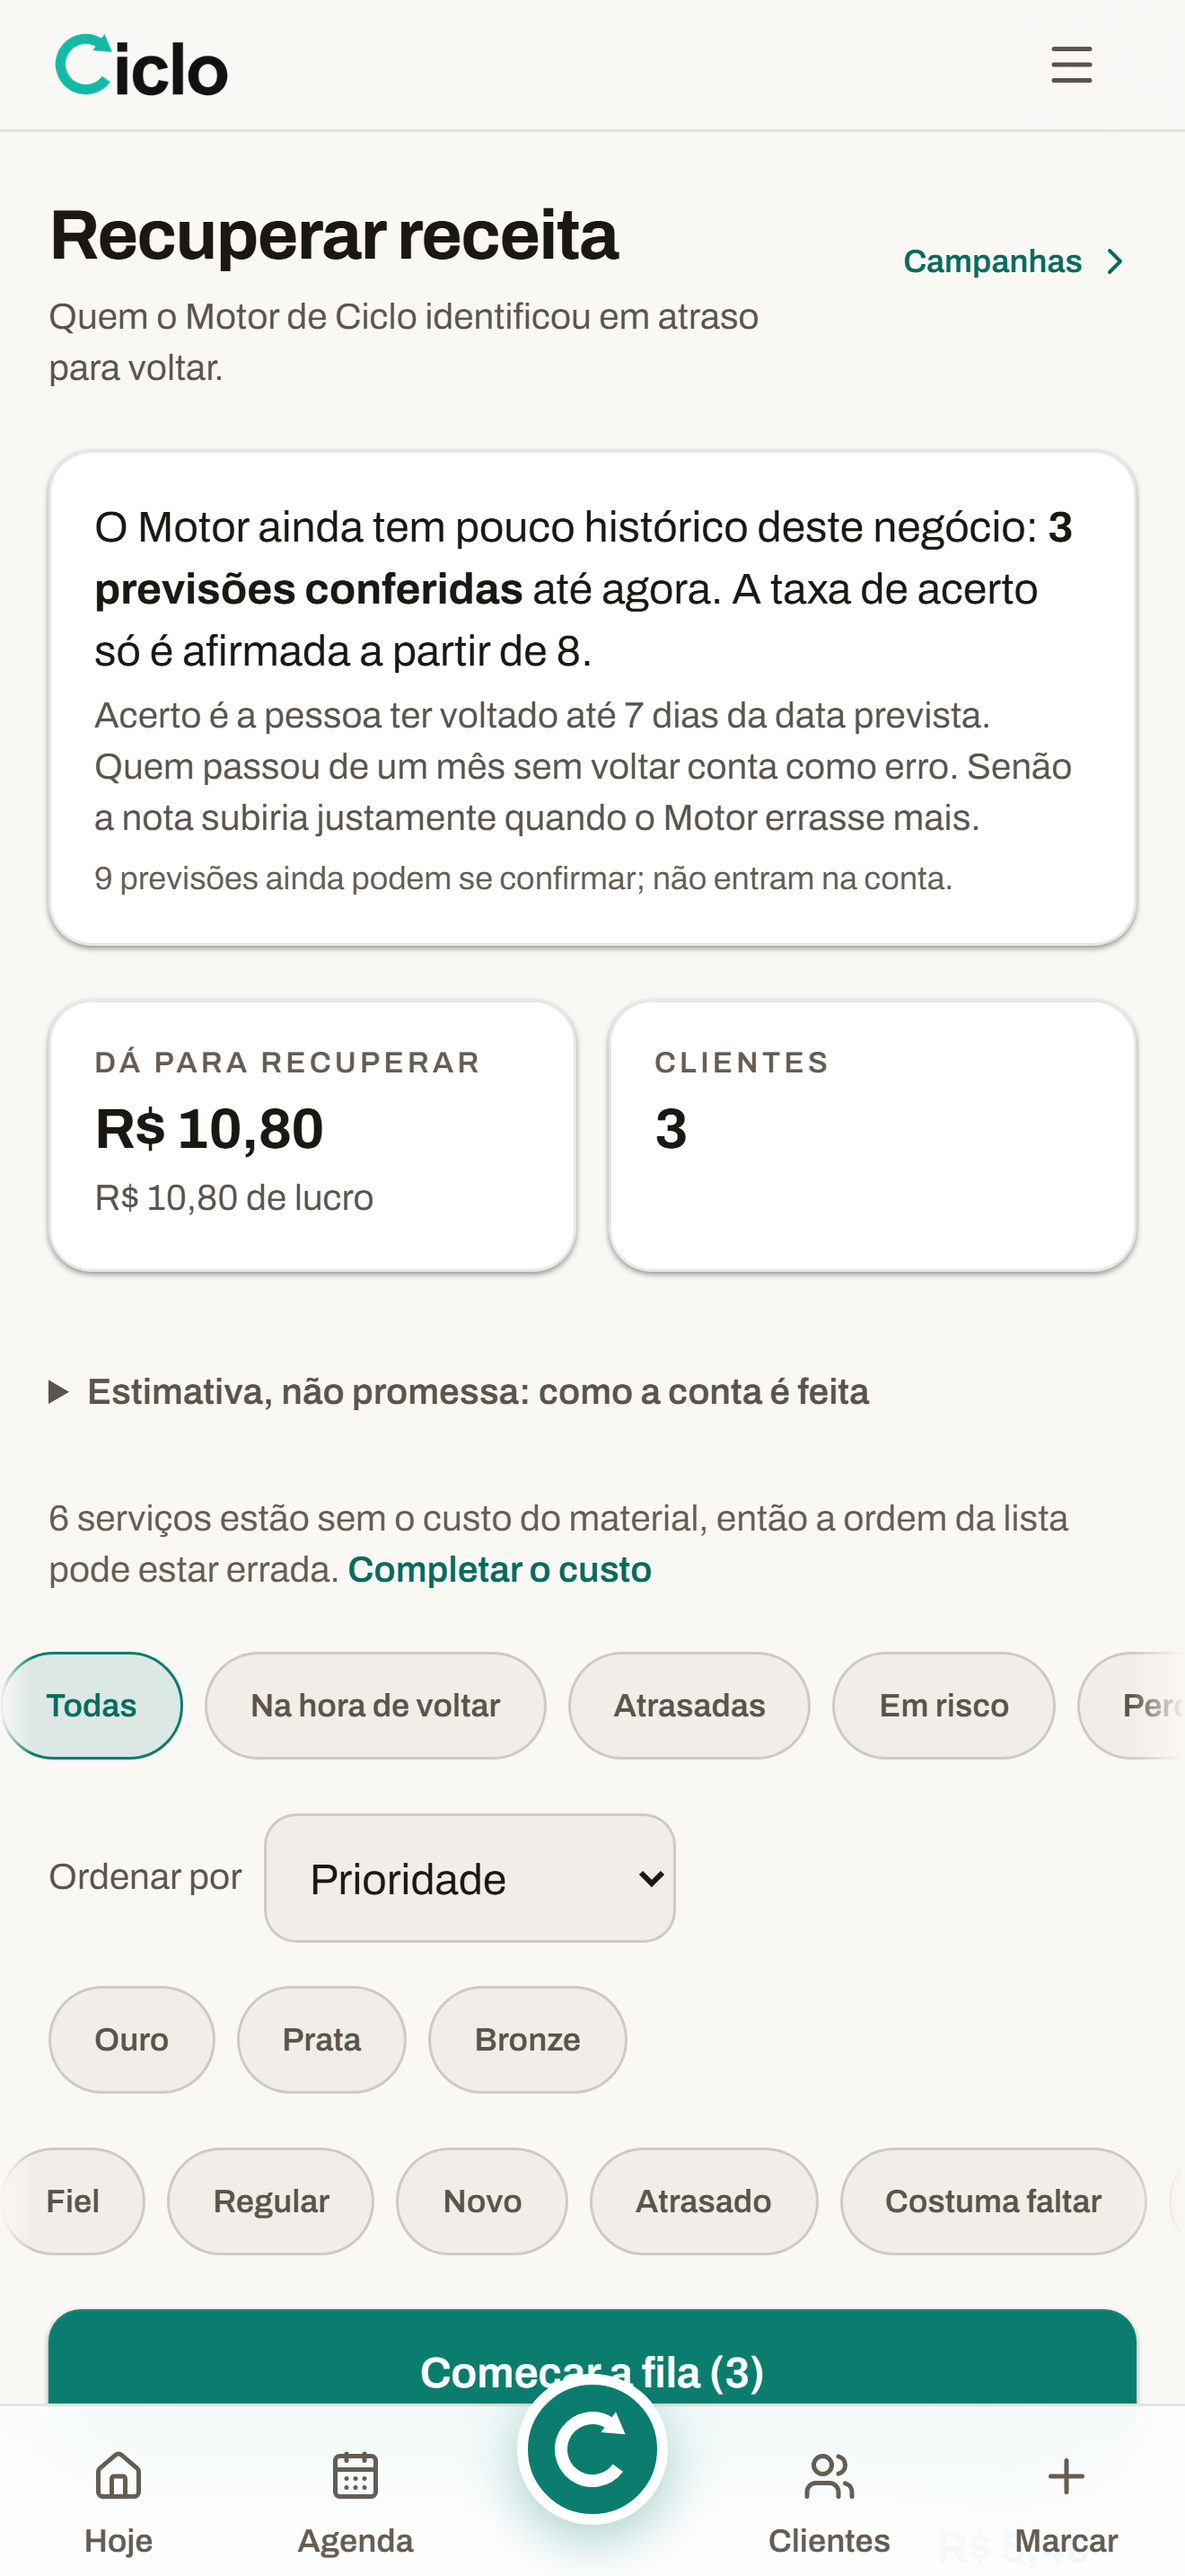
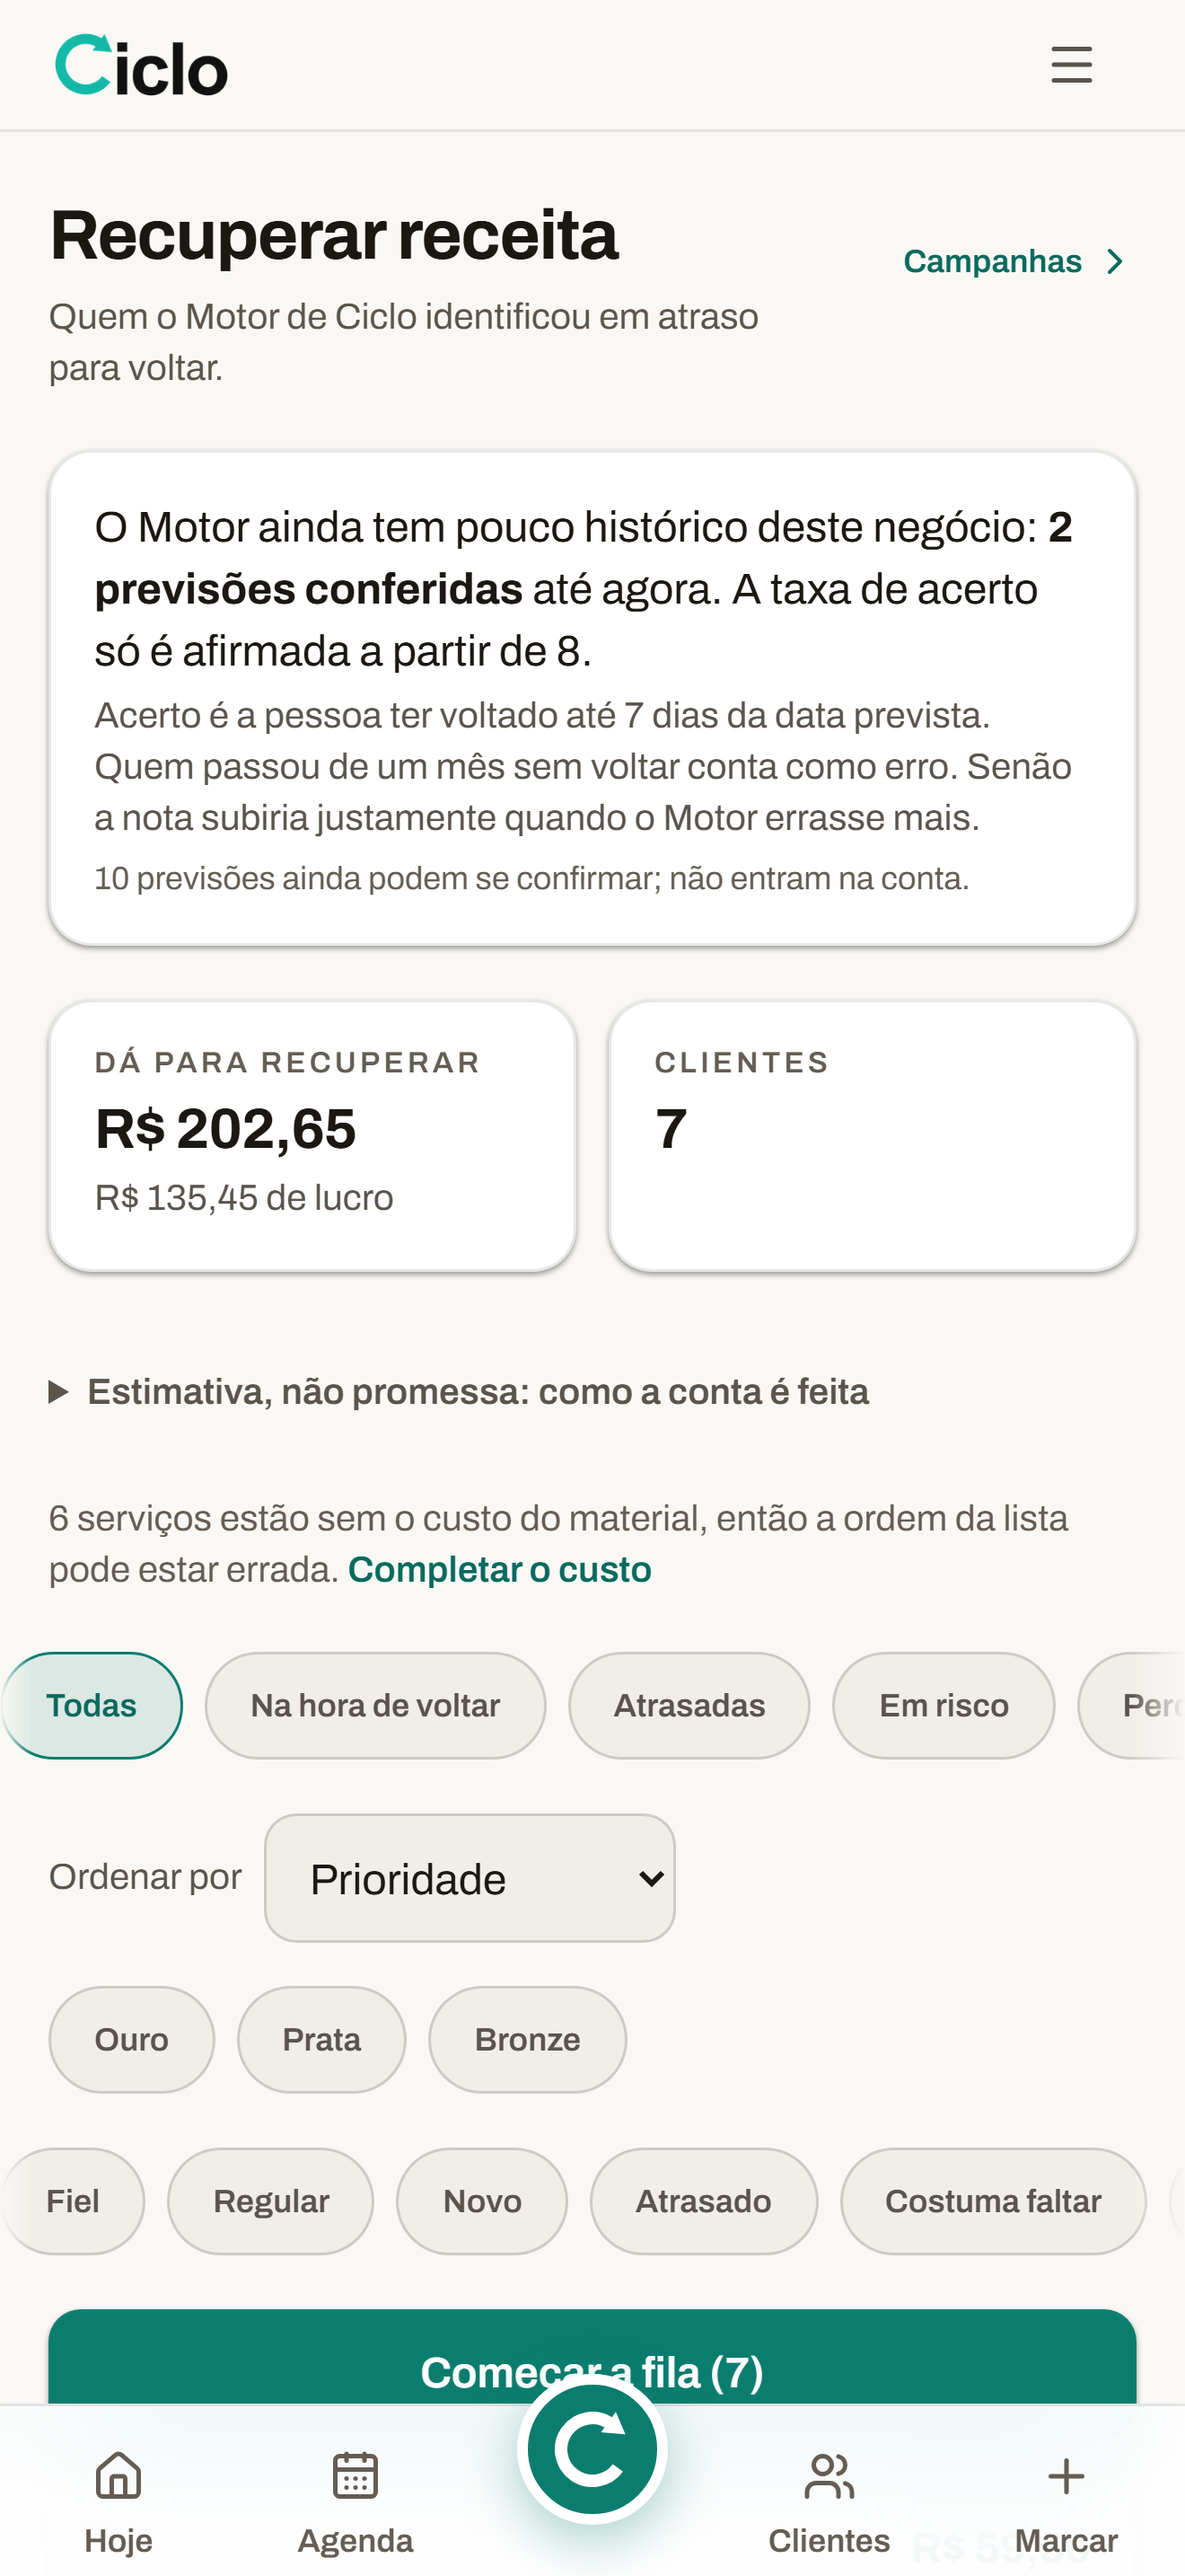
docs(98): imagens da loja refeitas com a semente nova (7 na fila, R$ 202,65)

Changed region(s): [[0.1553, 0.4344, 0.3106, 0.4655], [0.6212, 0.8999, 0.6523, 0.931], [0.5591, 0.4344, 0.5902, 0.4655]]

diff --git a/docs/98-aprimoramento/13-material-de-envio-lojas.md b/docs/98-aprimoramento/13-material-de-envio-lojas.md
@@ -94,7 +94,7 @@ Geradas do build de produção desta branch, com um negócio fictício do banco 
 
 As imagens mostram só o que a conta do revisor também mostra (regra 2.3).
 
-**Estado em 15/10 (rascunho, não é a versão final):** geradas com o ensaio completo da seção 6 num Supabase local **isolado** com o esquema da `main` (o banco local compartilhado está 21 migrations à frente e quebrava o Motor). Hoje mostra "3 clientes estão sumindo" e Recuperar mostra a fila. Para a versão final: capturar **de dia** (à noite aparece "Boa noite" e "Nada marcado para hoje"), preencher o custo dos serviços (some o aviso "6 serviços estão sem o custo") e decidir se o seed deve ter clientes "na hora de voltar", não só "perdidos" (o valor a recuperar sai R$ 10,80 porque perdido tem pouca chance de volta).
+**Estado em 15/10 (rascunho, não é a versão final):** geradas com o ensaio completo da seção 6 num Supabase local **isolado** com o esquema da `main` (o banco local compartilhado está 21 migrations à frente e quebrava o Motor). Hoje mostra "3 clientes estão sumindo" e Recuperar mostra a fila. Para a versão final: capturar **de dia** (à noite aparece "Boa noite" e "Nada marcado para hoje"), preencher o custo dos serviços (some o aviso "6 serviços estão sem o custo") (a semente foi corrigida no #151: agora há cliente em cada estado do Motor, e o Recuperar mostra 7 pessoas e R$ 202,65; era R$ 10,80 com três perdidos).
 
 ## 6. Preparar a conta do revisor (LOJA-54), na véspera de cada envio
 
